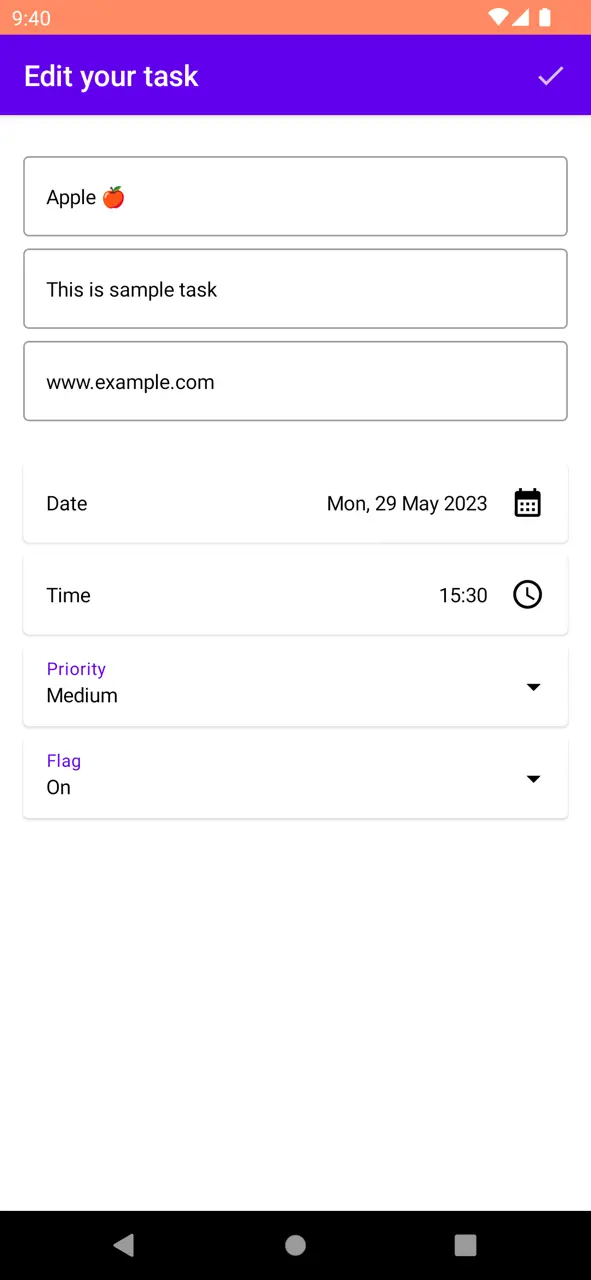
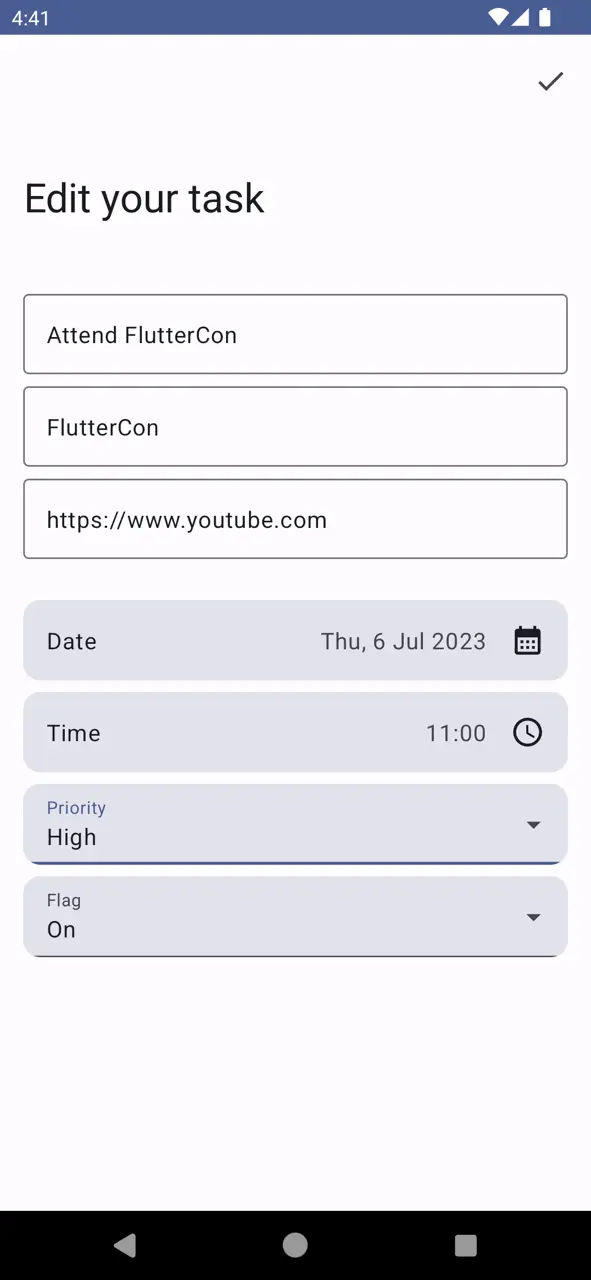
Update screenshots and README.md

diff --git a/README.md b/README.md
@@ -1,38 +1,36 @@
-# Make it So
+# MakeItSo (Material 3)
 
 Building an Android app with Jetpack Compose and Firebase - The Firebase Blog.
 
-The app we are going to build here is called Make It So. It’s a simple to-do list application that allows the user to add and edit to-do items, add flags, priorities and due dates, and mark the tasks as completed.
+The app we are going to build here is called Make It So. It’s a simple to-do
+list application that allows the user to add and edit to-do items, add flags,
+priorities and due dates, and mark the tasks as completed.
 
-This is the final (modified) app of the series that dive into creating a new Android application from scratch using Jetpack Compose for the user interface and some other tools offered by Google, like Firebase Authentication, Crashlytics, Cloud Firestore and Hilt.
+This is the final (modified) app of the series that dive into creating a new
+Android application from scratch using Jetpack Compose for the user interface
+and some other tools offered by Google, like Firebase Authentication,
+Crashlytics, Cloud Firestore and Hilt.
 
-[Start Tutorial](https://firebase.blog/posts/2022/04/building-an-app-android-jetpack-compose-firebase) at Firebase Blog.
+[Start Tutorial](https://firebase.blog/posts/2022/04/building-an-app-android-jetpack-compose-firebase)
+at Firebase Blog.
 
 ## Preview
 
-![](preview/preview_sign_in.webp)
-![](preview/preview_create_account.webp)
-![](preview/preview_task_options.webp)
-![](preview/preview_delete_task.webp)
-![](preview/preview_new_task.webp)
-![](preview/preview_priority.webp)
-![](preview/preview_date_picker.webp)
-![](preview/preview_time_picker.webp)
-![](preview/preview_not_signed.webp)
-![](preview/preview_signed_in.webp)
-![](preview/preview_signed_out.webp)
-![](preview/preview_delete_account.webp)
+![](preview/preview_home.webp) ![](preview/preview_new_task.webp)
+![](preview/preview_delete_task.webp) ![](preview/preview_anonymous.webp)
+![](preview/preview_login.webp) ![](preview/preview_register.webp)
+![](preview/preview_signed.webp) ![](preview/preview_signout.webp)
 
 ## Using Firebase Emulators
 
 ```console
-firebase emulators:start --import=path --export-on-exit=path
+firebase emulators:start --import=local --export-on-exit=local
 ```
 
 ## Connecting Firebase Emulator to Android Emulator
 
-`10.0.2.2` is the special IP address to connect to the `localhost`
-or `127.0.0.1` of the host computer from an Android emulator.
+`10.0.2.2` is the special IP address to connect to the `localhost` or
+`127.0.0.1` of the host computer from an Android emulator.
 
 ```kotlin
 FirebaseAuth.getInstance().useEmulator("10.0.2.2", 9099)
@@ -48,7 +46,8 @@ FirebaseFirestore.getInstance().setFirestoreSettings(settings)
 
 ## Extras
 
-Sometimes the port remains occupied in case of abnormal process termination, to find and close the process use the below pair of commands.
+Sometimes the port remains occupied in case of abnormal process termination, to
+find and close the process use the below pair of commands.
 
 ```console
 lsof -i tcp:port
